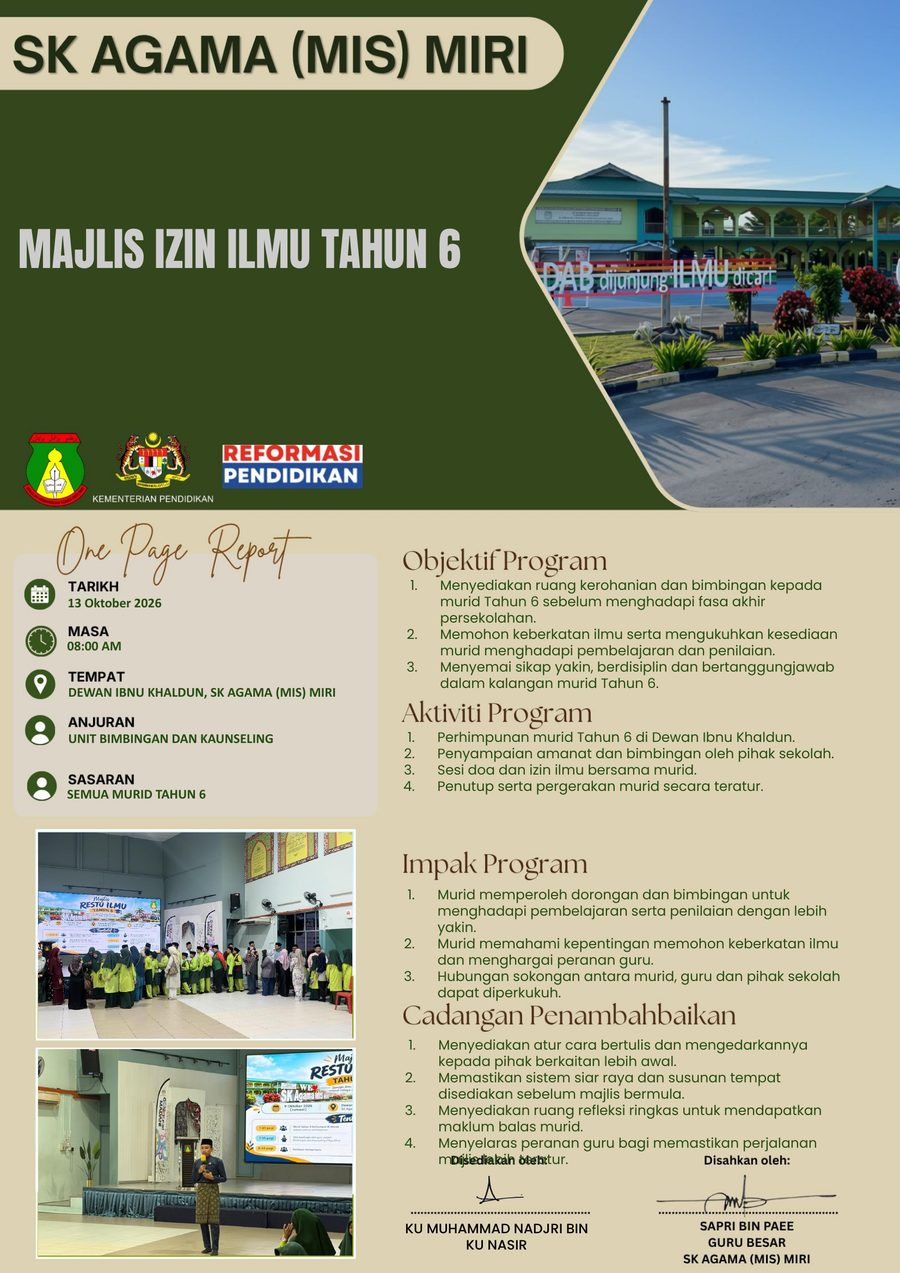
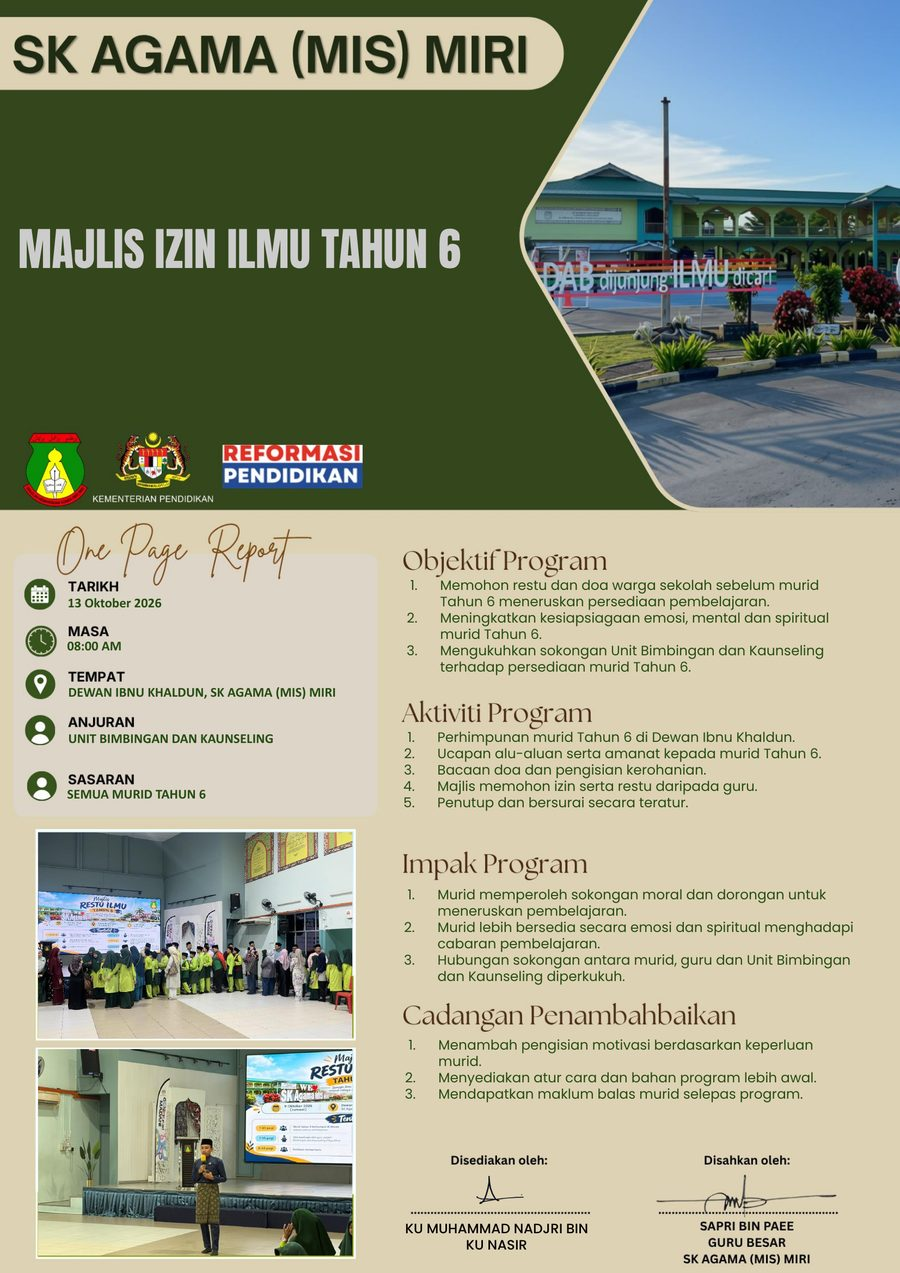
OPR: thumbnail Hijau dikemas kini (3 cadangan)
Claude-Session: https://claude.ai/code/session_01WB3BTyWfao2yLByT1ooThD

Changed region(s): [[0.4356, 0.674, 0.9333, 0.9191], [0.4978, 0.4595, 0.9333, 0.5515], [0.4667, 0.5821, 0.9333, 0.6434]]

diff --git a/opr.html b/opr.html
@@ -294,7 +294,7 @@ button:not(:disabled):hover{transform:translateY(-1px);box-shadow:0 5px 12px rgb
       <span class="tpl-check" aria-hidden="true">✓</span>
     </button>
     <button type="button" class="tpl-card" role="radio" aria-checked="false" data-templat="hijau">
-      <span class="tpl-thumb"><img src="assets/opr-templat-hijau.jpg?v=20261014c" alt="Pratonton templat Hijau" loading="lazy"></span>
+      <span class="tpl-thumb"><img src="assets/opr-templat-hijau.jpg?v=20261014d" alt="Pratonton templat Hijau" loading="lazy"></span>
       <span class="tpl-info">
         <span class="tpl-name">🟢 Hijau</span>
         <span class="tpl-desc">Saiz A4 · termasuk Cadangan Penambahbaikan</span>
@@ -1095,7 +1095,7 @@ function setTemplat(value,remember=true){
   const v=TEMPLAT_INFO[value]&&(!card||!card.hidden||!remember)?value:"biru";
   $("templat").value=v;
   document.querySelectorAll(".tpl-card").forEach(c=>c.setAttribute("aria-checked",String(c.dataset.templat===v)));
-  $("tplZoom").href=`assets/opr-templat-${v}-besar.jpg?v=20261014c`;
+  $("tplZoom").href=`assets/opr-templat-${v}-besar.jpg?v=20261014d`;
   const adaCadangan=tplInfo(v).cadangan;
   $("cadanganWrap").hidden=!adaCadangan;
   $("cadangan").required=adaCadangan;
